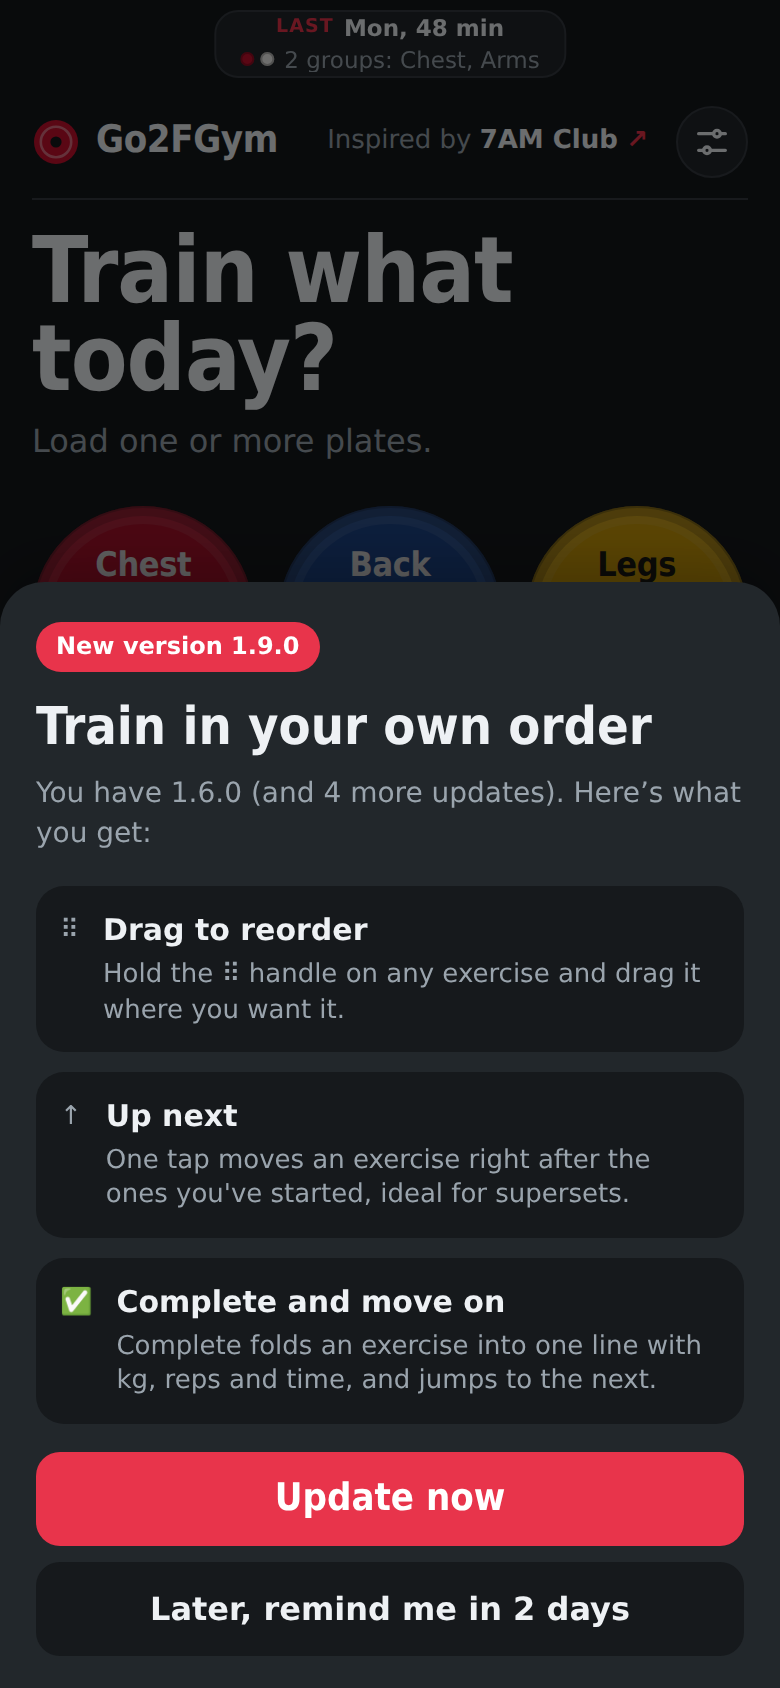
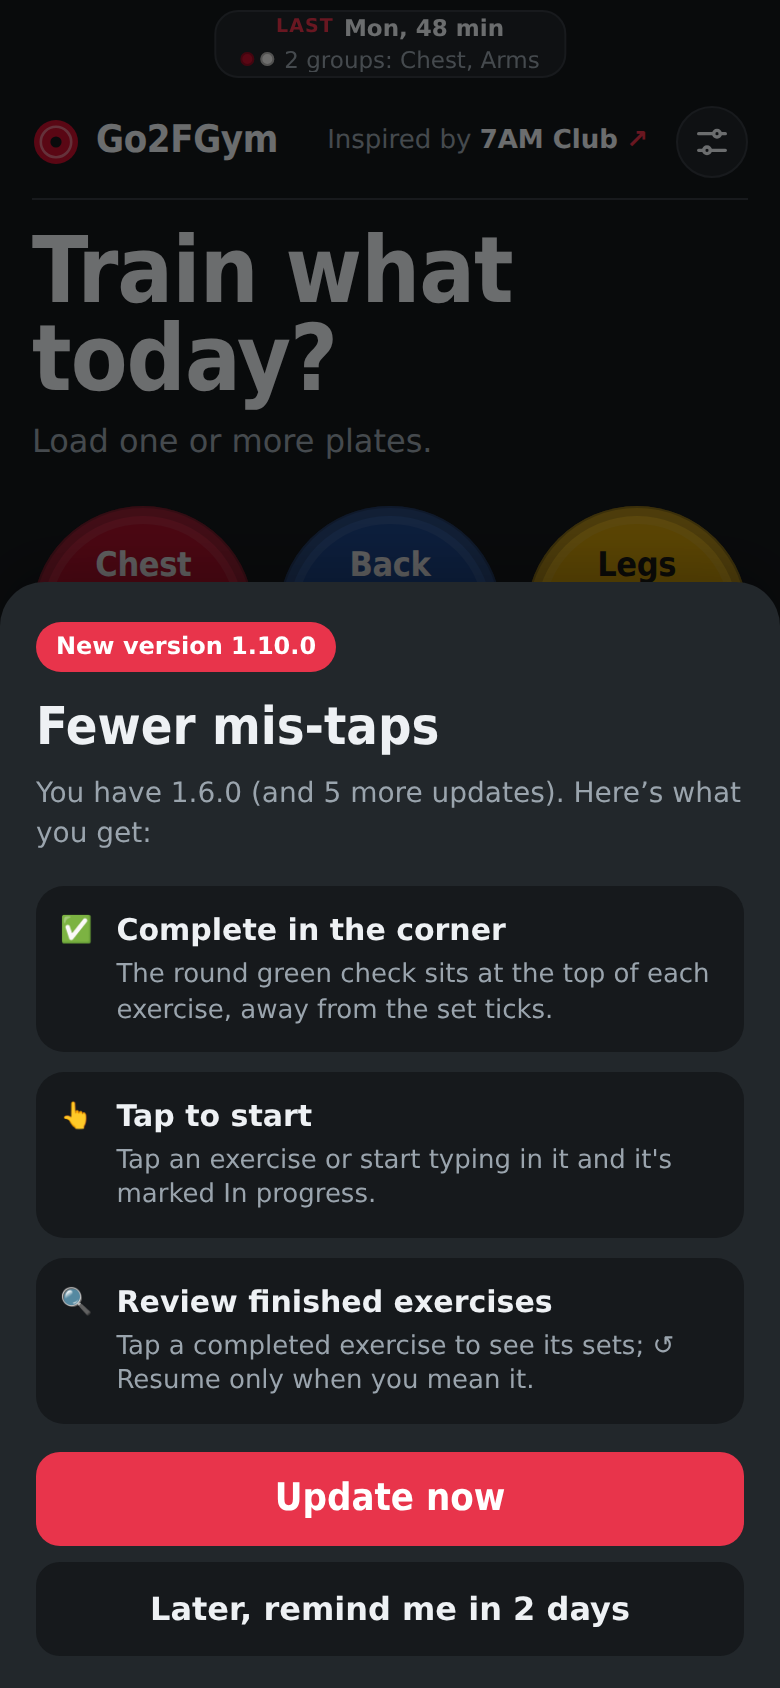
Release 1.10.0: round Complete check in the card corner, tap or type to start an exercise, completed exercises open for review with Resume

diff --git a/Go2FGym.js b/Go2FGym.js
@@ -28,7 +28,7 @@ const COACH = { autoAnalyze: true, autoStrava: true };
 
 // ---------------------------------------------------------------- version
 // This build's version. When releasing, bump it and add a matching entry to releases.json.
-const VERSION = '1.9.0';
+const VERSION = '1.10.0';
 const APP_ID = 'go2fgym';   // unique per app, never changes
 const REPO_RAW = 'https://raw.githubusercontent.com/gadominas/Go2FGym/main/';
 const SCRIPT_FILE = 'Go2FGym.js';   // the script's file name in the repository
@@ -1017,7 +1017,7 @@ function webApp() {
     imgs: {}, pending: new Set(), queue: new Set(),
     rest: { end: 0, total: 0, beeped: true },
     openSession: null, armed: null, sync: null,
-    histView: "calendar", cal: null, stravaMode: {}, focusId: null,
+    histView: "calendar", cal: null, stravaMode: {}, focusId: null, reviewIds: new Set(),
     consent: !!(BOOT.consent && BOOT.consent.version === CFG.disclaimerVersion),
     showDisclaimer: false,
     ai: {
@@ -2003,10 +2003,34 @@ function webApp() {
   // ------------------------------------------------ workout order, completing exercises, drag and drop
   const firstOpen = (list) => { const i = list.findIndex((x) => !x.completed); return i < 0 ? list.length : i; };
   // Where "Up next" puts an exercise: right after the exercises already started, or first among the open ones.
+  // In progress: tapped or typed into, or with a ticked set (and not completed).
+  const inProgress = (en) => !en.completed && (!!en.active || en.sets.some((y) => y.done));
+  const statusText = (en) => (inProgress(en) ? "● In progress" : S.focusId === en.id ? "▶ Up now" : "");
+  // Tapping a card (or typing in it) starts that exercise. Untouched ones that were only tapped stop being "in progress".
+  function activate(ei, rerender) {
+    const list = S.session && S.session.entries;
+    const en = list && list[ei];
+    if (!en || en.completed) return;
+    if (en.active && S.focusId === en.id) return;
+    list.forEach((x) => { if (x !== en && x.active && !x.sets.some((y) => y.done)) x.active = false; });
+    en.active = true;
+    en.startedAt = en.startedAt || Date.now();
+    S.focusId = en.id;
+    saveDraft();
+    if (rerender) return render();
+    document.querySelectorAll("#app .entry[data-ei]").forEach((el) => {   // light update: keeps the keyboard open
+      const x = list[+el.dataset.ei];
+      if (!x || x.completed) return;
+      el.classList.toggle("focus", S.focusId === x.id);
+      el.classList.toggle("active", inProgress(x));
+      const st = el.querySelector(".entry-status");
+      if (st) st.textContent = statusText(x);
+    });
+  }
   function upNextIndex(ei) {
     const list = S.session.entries.filter((_, i) => i !== ei);
     let at = -1;
-    list.forEach((x, i) => { if (!x.completed && x.sets.some((y) => y.done)) at = i; });
+    list.forEach((x, i) => { if (inProgress(x)) at = i; });
     return at >= 0 ? at + 1 : firstOpen(list);
   }
   function moveEntry(from, to) {
@@ -2040,7 +2064,8 @@ function webApp() {
     en.doneAt = now;
     en.startedAt = en.startedAt || Math.min(...en.sets.filter((x) => x.t).map((x) => x.t), now);
     moveEntry(ei, firstOpen(list.filter((_, i) => i !== ei)));   // completed ones collect at the top
-    const next = list.find((x) => !x.completed && x.sets.some((y) => y.done)) || list.find((x) => !x.completed);
+    en.active = false;
+    const next = list.find((x) => inProgress(x)) || list.find((x) => !x.completed);
     S.focusId = next ? next.id : null;
     saveDraft();
     render();
@@ -2099,6 +2124,19 @@ function webApp() {
     render();
   }
   document.addEventListener("pointerup", endDrag);
+  document.addEventListener("click", (ev) => {
+    if (S.tab !== "workout" || S.detailId || !S.session) return;
+    const card = ev.target.closest && ev.target.closest("#app .entry[data-ei]:not(.done-row)");
+    if (!card) return;
+    const btn = ev.target.closest("[data-a]");
+    if (btn && btn.dataset.a !== "done") return;   // other buttons do their own thing
+    const typing = !!ev.target.closest("input");
+    activate(+card.dataset.ei, !btn && !typing);   // a set tick re-renders by itself
+  }, true);
+  document.addEventListener("focusin", (ev) => {
+    const inp = ev.target.closest && ev.target.closest("#app .entry[data-ei] input");
+    if (inp && S.tab === "workout") activate(+inp.closest(".entry").dataset.ei, false);
+  });
   document.addEventListener("pointercancel", endDrag);
 
   function renderWorkout() {
@@ -2114,13 +2152,20 @@ function webApp() {
       if (en.completed) {
         const sum = entrySummary(en);
         const g = groupOf(en.id);
-        return `<section class="entry done-row" data-ei="${ei}">${grip}
-          <button class="done-main" data-a="reopen" data-v="${ei}" aria-label="${esc(en.name)}, completed. Tap to reopen.">
+        const open = S.reviewIds.has(en.id);
+        const when = en.startedAt ? new Date(en.startedAt).toLocaleTimeString(undefined, { hour: "2-digit", minute: "2-digit" }) : "";
+        return `<section class="entry done-row${open ? " open" : ""}" data-ei="${ei}"><div class="done-line">${grip}
+          <button class="done-main" data-a="review" data-v="${esc(en.id)}" aria-expanded="${open}" aria-label="${esc(en.name)}, completed. Tap to ${open ? "hide" : "see"} the sets.">
           <span class="ck">✓</span><b>${esc(en.name)}</b>
-          <span class="dl-meta">${g ? `<i class="dot pl-${g.plate}" title="${g.label}"></i>` : ""}${esc(sum)}${g ? ` · ${g.label}` : ""}</span></button></section>`;
+          <span class="dl-meta">${g ? `<i class="dot pl-${g.plate}" title="${g.label}"></i>` : ""}${esc(sum)}${g ? ` · ${g.label}` : ""}</span></button></div>
+          ${open ? `<div class="done-detail">
+            <div class="done-sets">${en.sets.filter((x) => x.done && x.r > 0).map((x, i) => `<span class="ds"><b>${i + 1}</b> ${x.w ? `${fmtNum(x.w)} ${UNIT} × ` : ""}${x.r}</span>`).join("")}</div>
+            ${when ? `<p class="muted small">Started ${esc(when)}${en.doneAt ? `, completed ${esc(new Date(en.doneAt).toLocaleTimeString(undefined, { hour: "2-digit", minute: "2-digit" }))}` : ""}.</p>` : ""}
+            <div class="done-acts"><button class="link" data-a="open" data-v="${esc(en.id)}">Exercise page ›</button>
+            <button class="chip" data-a="reopen" data-v="${ei}">↺ Resume</button></div></div>` : ""}</section>`;
       }
       const last = lastSets(en.id);
-      const started = en.sets.some((x) => x.done);
+      const started = inProgress(en);
       const focus = S.focusId === en.id;
       const nextIdx = upNextIndex(ei);
       const rows = en.sets.map((x, si) => `<div class="set-row${x.done ? " done" : ""}">
@@ -2129,21 +2174,21 @@ function webApp() {
           <input data-in="r" data-ei="${ei}" data-si="${si}" inputmode="numeric" placeholder="0" value="${x.r == null ? "" : esc(x.r)}" aria-label="Set ${si + 1} reps">
           <button class="tick" data-a="done" data-v="${ei}:${si}" aria-label="${x.done ? "Mark set as not done" : "Mark set as done"}">✓</button>
           <button class="x" data-a="rm-set" data-v="${ei}:${si}" aria-label="Remove set ${si + 1}">×</button></div>`).join("");
-      return `<section class="entry${focus ? " focus" : ""}" data-ei="${ei}">
-        ${focus || started ? `<p class="entry-status">${started ? "● In progress" : "▶ Up now"}</p>` : ""}
+      return `<section class="entry${focus ? " focus" : ""}${started ? " active" : ""}" data-ei="${ei}">
+        <p class="entry-status">${statusText(en)}</p>
         <div class="entry-head">${grip}<button class="entry-name" data-a="open" data-v="${esc(en.id)}">${esc(en.name)}</button>
         <button class="pv-btn" data-a="preview" data-v="${esc(en.id)}" aria-label="Preview ${esc(en.name)}"><svg viewBox="0 0 24 24" aria-hidden="true"><path d="M2 12s3.6-7 10-7 10 7 10 7-3.6 7-10 7S2 12 2 12z"/><circle cx="12" cy="12" r="3"/></svg></button>
-        <button class="link small${S.armed === "rm" + ei ? " armed" : ""}" data-a="rm-entry" data-v="${ei}">${S.armed === "rm" + ei ? "Tap to remove" : "Remove"}</button></div>
+        <button class="cmp-btn" data-a="complete" data-v="${ei}" aria-label="Complete ${esc(en.name)}" title="Complete exercise"><svg viewBox="0 0 24 24" aria-hidden="true"><path d="M5 12.5l4.5 4.5L19 7.5"/></svg></button></div>
         ${en.note ? `<p class="small coach-note">✨ ${esc(en.note)}${en.rest ? ` Rest ${en.rest} s.` : ""}</p>` : ""}
         ${last ? `<p class="muted small">Last time, ${esc(day(last.date))}: ${esc(fmtSets(last.sets))}</p>` : `<p class="muted small">First time logging this one.</p>`}
         <div class="set-row head"><span>Set</span><span>${UNIT}</span><span>Reps</span><span></span><span></span></div>
         ${rows}
         <div class="entry-actions"><button class="link" data-a="add-set" data-v="${ei}">Add set</button>
           ${nextIdx !== ei && !started ? `<button class="chip" data-a="up-next" data-v="${ei}">↑ Up next</button>` : ""}
-          <button class="chip complete-btn" data-a="complete" data-v="${ei}">✓ Complete</button></div></section>`;
+          <button class="link small danger${S.armed === "rm" + ei ? " armed" : ""}" data-a="rm-entry" data-v="${ei}">${S.armed === "rm" + ei ? "Tap to remove" : "Remove"}</button></div></section>`;
     }).join("");
     return `<header class="bar"><h1 class="title">${esc(s.title || "Workout")}</h1><button class="hbtn" data-a="add-ex">＋ Add exercises</button></header>
-      <p class="muted small" id="totals"><span id="elapsed">${elapsed(s.start)}</span>, ${plural(t.n, "set")} done${t.v ? `, ${fmtNum(t.v)} ${UNIT} lifted` : ""}${s.entries.some((x) => x.completed) ? `, ${s.entries.filter((x) => x.completed).length} of ${s.entries.length} exercises complete` : ""}. Tap ✓ after each set; drag ⠿ to reorder, or ↑ Up next.</p>
+      <p class="muted small" id="totals"><span id="elapsed">${elapsed(s.start)}</span>, ${plural(t.n, "set")} done${t.v ? `, ${fmtNum(t.v)} ${UNIT} lifted` : ""}${s.entries.some((x) => x.completed) ? `, ${s.entries.filter((x) => x.completed).length} of ${s.entries.length} exercises complete` : ""}. Tap ✓ after each set and the green circle to complete an exercise; drag ⠿ to reorder.</p>
       ${entries}
       <button class="secondary" data-a="add-ex">＋ Add exercises</button>
       <button class="primary${S.armed === "finish" ? " armed" : ""}" data-a="finish">${S.armed === "finish" ? "Tap again to save" : "Finish workout"}</button>
@@ -2721,10 +2766,13 @@ function webApp() {
       toast(`${en.name} is up next`);
     },
     complete: (v) => completeEntry(+v),
+    review: (v) => { S.reviewIds.has(v) ? S.reviewIds.delete(v) : S.reviewIds.add(v); render(); },
     reopen: (v) => {
       const en = S.session.entries[+v];
       en.completed = false;
+      en.active = true;
       delete en.doneAt;
+      S.reviewIds.delete(en.id);
       S.focusId = en.id;
       saveDraft();
       render();
@@ -3024,8 +3072,19 @@ body.is-dragging{-webkit-user-select:none;user-select:none}
 .entry-status{margin:0 0 2px;font-size:calc(12px * var(--ts));font-weight:800;color:var(--accent);text-transform:uppercase;letter-spacing:.05em}
 .entry-actions{display:flex;align-items:center;gap:8px;flex-wrap:wrap;padding:4px 0 8px}
 .entry-actions .link{margin-right:auto}
-.entry-actions .chip.complete-btn{background:var(--done);border-color:var(--done);color:#fff;font-weight:700}
-.done-row{display:flex;align-items:center;gap:4px;padding:6px 10px 6px 14px;opacity:.92}
+.cmp-btn{flex:none;width:40px;height:40px;border-radius:20px;border:2px solid var(--done);color:var(--done);display:grid;place-items:center;background:transparent}
+.cmp-btn svg{width:22px;height:22px;fill:none;stroke:currentColor;stroke-width:2.6;stroke-linecap:round;stroke-linejoin:round}
+.entry.active .cmp-btn{background:color-mix(in srgb,var(--done) 16%,transparent)}
+.entry-status:empty{display:none}
+.entry.active:not(.focus){box-shadow:0 0 0 1.5px color-mix(in srgb,var(--accent) 45%,transparent)}
+.done-line{display:flex;align-items:center;gap:4px}
+.done-detail{padding:2px 4px 6px 30px}
+.done-sets{display:flex;flex-wrap:wrap;gap:6px;margin:4px 0 6px}
+.ds{font-size:calc(13px * var(--ts));background:var(--bg);border-radius:8px;padding:4px 8px}
+.ds b{color:var(--muted);margin-right:4px}
+.done-acts{display:flex;align-items:center;justify-content:space-between;gap:10px}
+.done-row{display:flex;flex-direction:column;align-items:stretch;padding:6px 10px 6px 14px;opacity:.92}
+.done-row.open{opacity:1}
 .done-main{flex:1;min-width:0;display:flex;align-items:center;gap:8px;padding:6px 0;text-align:left;white-space:nowrap;overflow:hidden}
 .done-main .ck{flex:none;width:22px;height:22px;border-radius:11px;background:var(--done);color:#fff;display:grid;place-items:center;font-size:13px;font-weight:800}
 .done-main b{flex:0 1 auto;max-width:32%;overflow:hidden;text-overflow:ellipsis;font-size:calc(15px * var(--ts))}

diff --git a/README.md b/README.md
@@ -41,7 +41,8 @@ Gym apps assume a gym. At home you have a bench, a barbell, some dumbbells and t
 | 🏠 **Made for home** | 466 exercises for bodyweight, dumbbells, barbell and resistance bands. Own kettlebells, an E-Z bar or a medicine ball? Switch them on in **Settings › Library**. |
 | ✍ **Fast logging** | Weight and reps are prefilled from last time. Change what's different, tap ✓, done. |
 | ⠿ **Your order** | Drag exercises by the ⠿ handle, or tap **↑ Up next** to put one right after the ones you've started (great for supersets). |
-| ✅ **Complete and move on** | **✓ Complete** folds an exercise into one line with kg lifted, reps, minutes and muscle group, then highlights and scrolls to the next one. |
+| ✅ **Complete and move on** | The round green check in an exercise's corner folds it into one line with kg lifted, reps, minutes and muscle group, then highlights and scrolls to the next one. Tap a folded line to review its sets; **↺ Resume** reopens it. |
+| 👆 **Tap to start** | Tap an exercise or start typing in it and it's marked **In progress**. |
 | ＋ **Add as you go** | **＋ Add exercises** in the workout header opens the list for that workout's muscles; **✓ Workout** takes you straight back. |
 | 👁 **Quick preview** | The eye on each exercise in your workout shows it moving in a pop-up, with **Open exercise** for the full page. It closes itself after 10 seconds. |
 | ⏱ **Rest timer** | Ticking a set starts a countdown with a beep (90 s, adjustable in Settings). Add 30 s or skip. |
@@ -135,7 +136,8 @@ Every version is listed in the **[changelog](CHANGELOG.md)**. The version you ha
 | Add to today's workout | Tap **+** in the list, or **Add to workout** on the exercise |
 | Add more during a workout | **＋ Add exercises** at the top of the Workout tab, tap **+**, then **✓ Workout** at the top to go back |
 | Change the order of exercises | Drag the **⠿** handle, or tap **↑ Up next** on the one you want to do next |
-| Finish an exercise | **✓ Complete**; tap its one-line summary to reopen it |
+| Finish an exercise | The round green **✓** in its top-right corner |
+| Check a finished exercise | Tap its one-line summary to see the sets; **↺ Resume** to keep working on it |
 | Quickly see how an exercise is done | Tap the **eye** next to it in your workout or a built plan; **Open exercise** for the full page |
 | Log a set | Check weight and reps, then tap **✓**. Leave weight empty for bodyweight. |
 | Add or remove a set | **Add set** copies the previous one; **×** removes a set |

diff --git a/CHANGELOG.md b/CHANGELOG.md
@@ -2,6 +2,24 @@
 
 All notable changes to Go2FGym. Generated from `releases.json`; edit that file, not this one.
 
+## 1.10.0 (2026-10-29): Fewer mis-taps
+
+- ✅ **Complete in the corner**: The round green check sits at the top of each exercise, away from the set ticks.
+- 👆 **Tap to start**: Tap an exercise or start typing in it and it's marked In progress.
+- 🔍 **Review finished exercises**: Tap a completed exercise to see its sets; ↺ Resume only when you mean it.
+
+**Changes**
+
+- Complete moved from next to Add set to a round green check in the top-right corner of each exercise; Remove moved to the bottom row
+- Tapping an exercise card, or typing in its weight or reps, marks it In progress and highlights it; an exercise that was only tapped steps back when you start another
+- Tapping a completed exercise opens a review with every set and the start and finish time, plus Exercise page and ↺ Resume
+- ↺ Resume reopens a completed exercise as In progress
+
+**Fixes**
+
+- Complete sat right below the last set's tick, so it was easy to hit by mistake
+- Tapping a completed exercise reopened it instead of just showing it
+
 ## 1.9.0 (2026-10-29): Train in your own order
 
 - ⠿ **Drag to reorder**: Hold the ⠿ handle on any exercise and drag it where you want it.
